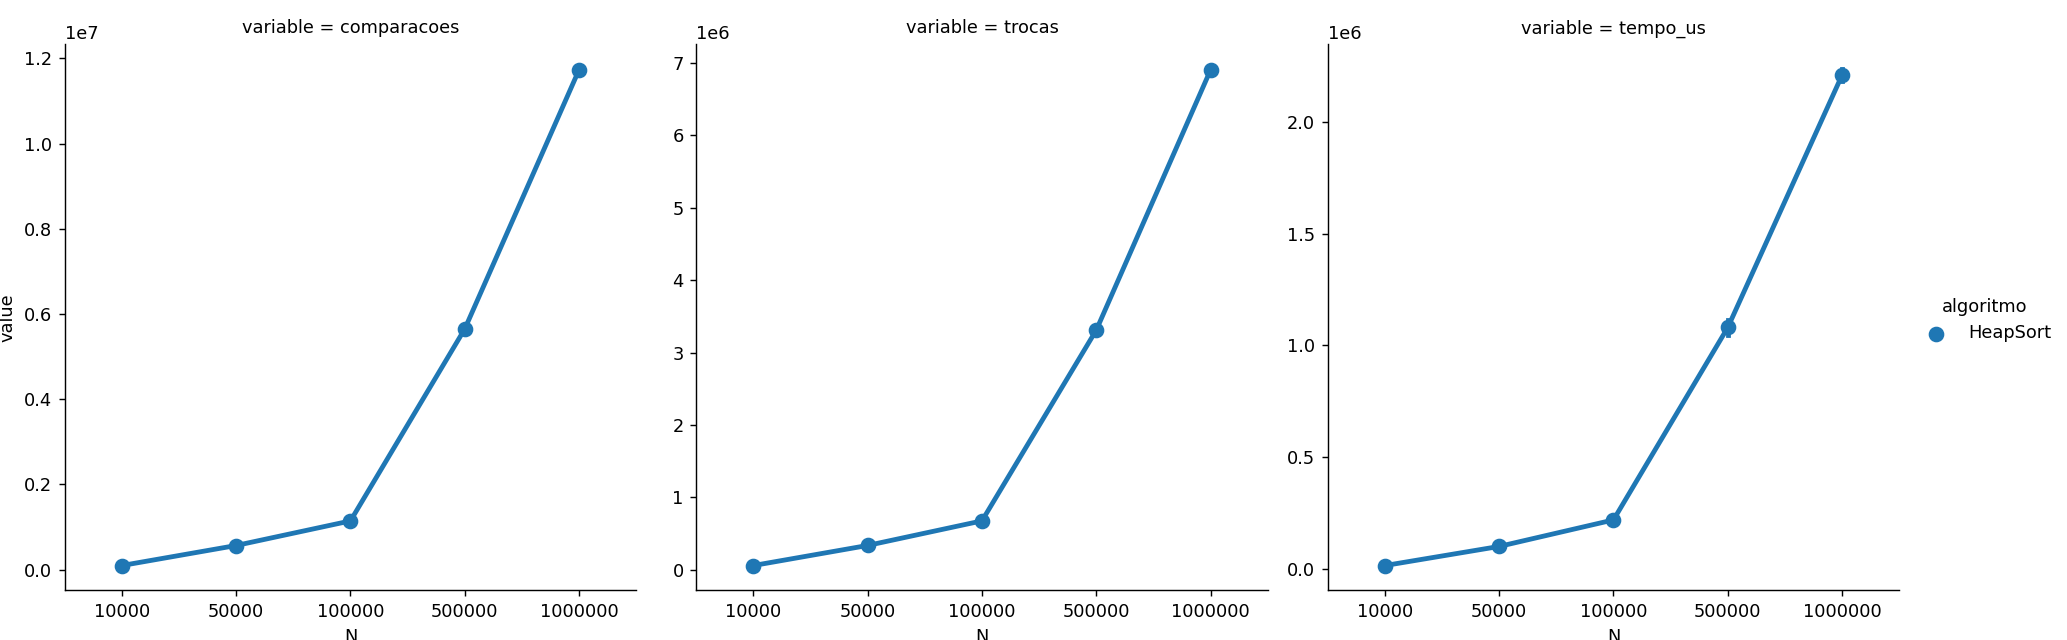
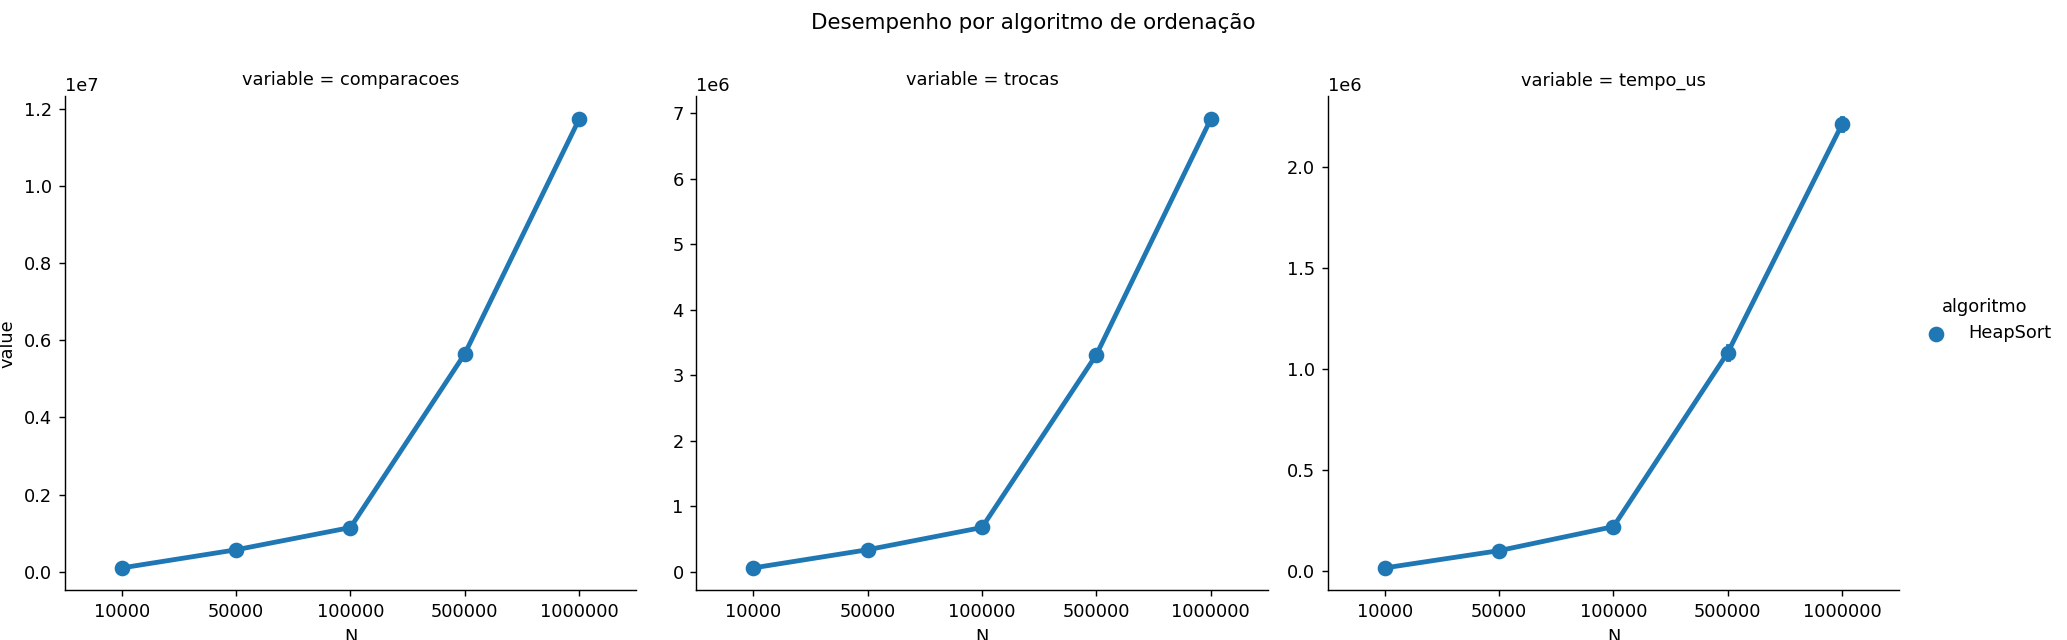
Titulo para o plot

diff --git a/python/plot_results.py b/python/plot_results.py
@@ -19,6 +19,8 @@ df = pd.read_csv('../saida.csv')
 print(df.head())
 
 melt = pd.melt(df, id_vars=['N','algoritmo'], value_vars=['comparacoes','trocas','tempo_us'])
-sns.catplot(kind='point', data=melt, x='N', y='value', hue='algoritmo', col='variable', ci='sd', sharey=False)
+g = sns.catplot(kind='point', data=melt, x='N', y='value', hue='algoritmo', col='variable', ci='sd', sharey=False)
+plt.subplots_adjust(top=0.85)
+g.fig.suptitle('Desempenho por algoritmo de ordenação')
 plt.savefig('grafico.png', dpi=128)
 plt.show()
